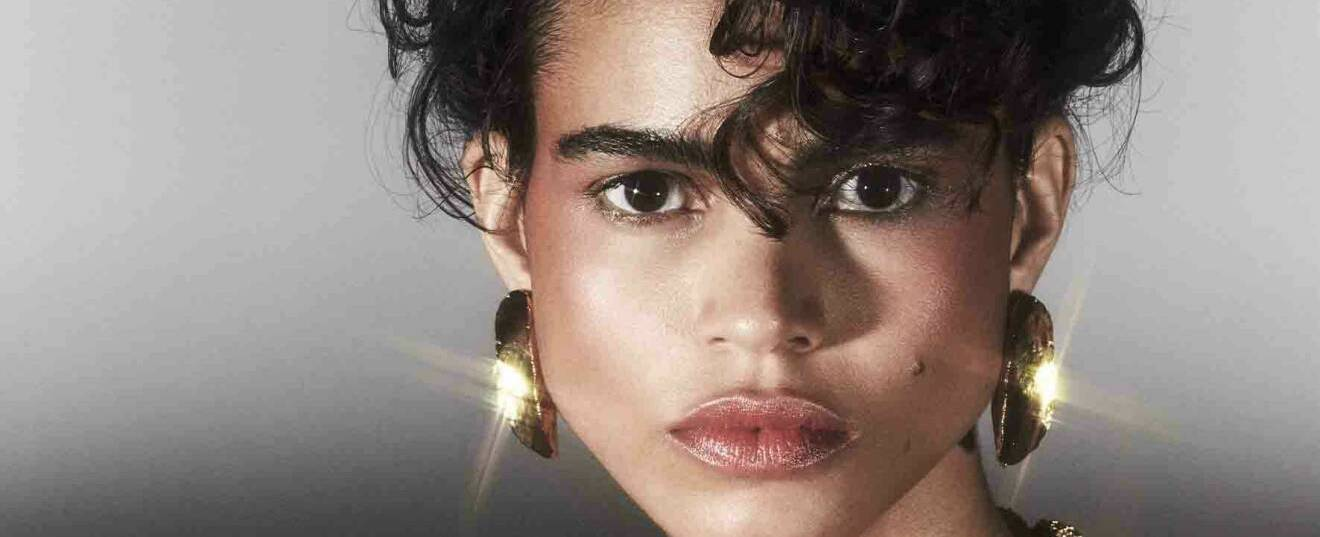
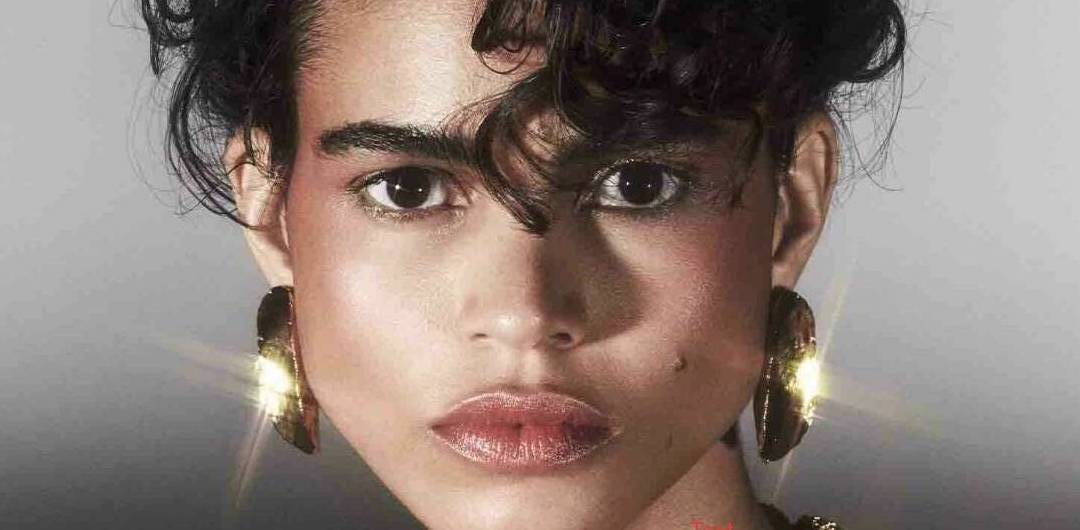
update

diff --git a/css/style.css b/css/style.css
@@ -202,6 +202,22 @@ HEAD #main-logo {
   text-decoration: none;
 }
 
+.category-overlay{
+  position: absolute;
+  top: 40%;
+  left: 40%;
+  font-size: 50px;
+  text-align: center;
+}
+
+.link-list{
+  list-style: none;
+}
+.category{
+  color: black;
+  text-decoration: none;
+  line-height: 2.4;
+}
 /* product page*/
 
   /*scroll ring pictures*/
@@ -228,7 +244,7 @@ HEAD #main-logo {
 }
 
 #front-accessories {
-  opacity: 65%;
+ opacity: 80%;
   width: 100%;
   height: auto;
   display: block;
@@ -236,16 +252,12 @@ HEAD #main-logo {
 
 .text-overlay {
   position: absolute;
-  top: 16vw;
-  left: 25vw;
+  top: 13vw;
+  left: 27vw;
   color: white;
   font-size: 6rem;
   font-weight: bold;
   text-align: center;
-}
-
-.sortandfilter {
-display: flex;
 }
 
 #accesories-container {
@@ -268,17 +280,15 @@ display: flex;
   display: block;
 }
 
-div{
-  margin-bottom: 0;
-}
 
-
+/* accessories headline*/
 
 .h1{
 margin-bottom: 0%;
 text-align:left;
 padding-left: 1%;
 }
+
 
 /* sort and filter section and styling*/
 
@@ -299,21 +309,58 @@ padding-left: 1%;
   color: black;
 }
 
-.category-overlay{
-  position: absolute;
-  top: 40%;
-  left: 40%;
-  font-size: 50px;
+
+/*  LAST PAGE  */
+
+#text-lastpage{
   text-align: center;
+ 
 }
 
-.link-list{
-  list-style: none;
+#checkout-flower{
+  text-align: center;
+  margin-top: 10%;
 }
-.category{
-  color: black;
-  text-decoration: none;
-  line-height: 2.4;
+
+/* rectangle "button" */
+.rectangle {
+  width: 220px; 
+  height: 50px; 
+  background-color:rgba(155, 138, 122, 0.994);
+  color: black; 
+  text-align: center; 
+  line-height: 20px; 
+  
+}
+
+.rectangle-container {
+  display: flex;
+  align-items: center;
+  justify-content: center;
+  height: 10vh;
+}
+
+/* Horizontal scrolling for last page*/
+#lastpage-picture {
+  display: flex;
+  overflow-x: auto;
+}
+.last-pictures {
+  flex-direction: row;
+  width: fit-content;
+}
+.last-pictures img {
+  max-width: 30vw;
+  height: 40vw;
+  padding: none;
+}
+
+/* add something to your order-text */
+#add-order{
+  margin-left: 3%;
+  font-weight: bold;
+  margin-top: 10%;
+   
 }
 
 
@@ -358,6 +405,7 @@ text-decoration: underline;
 #foot{
   font-weight: bolder;
 }
+
 /* styling for footer */
 
 

diff --git a/last-page.html b/last-page.html
@@ -50,6 +50,40 @@
     </ul> <!--Mainmenu finish-->
   </nav>
 <body>
+
+    <div id="checkout-flower">
+        <img id="flower-pic" src="images/flower.jpeg" alt="logo of lily">
+    </div>
+
+    <div class="rectangle-container">
+        <div class="rectangle">
+          <p>Thank you for your Purchase!</p>
+        </div>
+      </div>
+
+    <div id="text-lastpage">
+        <p>Order nr: 952</p>
+        <p>Confirmation sent to: a@a.se</p>
+    </div>
+
+    <p id="add-order">ADD SOMETHING TO YOUR ORDER</p>
+
+    <div id="lastpage-picture">
+      <figure class="last-pictures">
+        <img src="images/stone-bag.jpeg" alt="stone bag">
+      </figure>
+      <figure class="last-pictures">
+        <img src="images/black-dress.jpeg" alt="black dress">
+      </figure>
+      <figure class="last-pictures">
+        <img src="images/heels-black.jpeg" alt="black heels">
+      </figure>
+      <figure class="last-pictures">
+        <img src="images/suitpants-black.jpeg" alt="black pants">
+      </figure>
+    </div>
+
+
     
 </body>
 <footer >

diff --git a/accessories.html b/accessories.html
@@ -54,7 +54,7 @@
     <div id="front-accessories-container">
       <img
         id="front-accessories"
-        src="images/accesories1.jpeg"
+        src="images/accesories4.jpeg"
         alt="Front picture for the latest collection fronted by a girl wearing gold accessories"
       />
       <div class="text-overlay">ACCESSORIES</div>
@@ -68,7 +68,7 @@
       </ul>
     </nav>
 
-    
+
     <div>
       <h1 class="h1"> All accessories</h1>
     </div>
